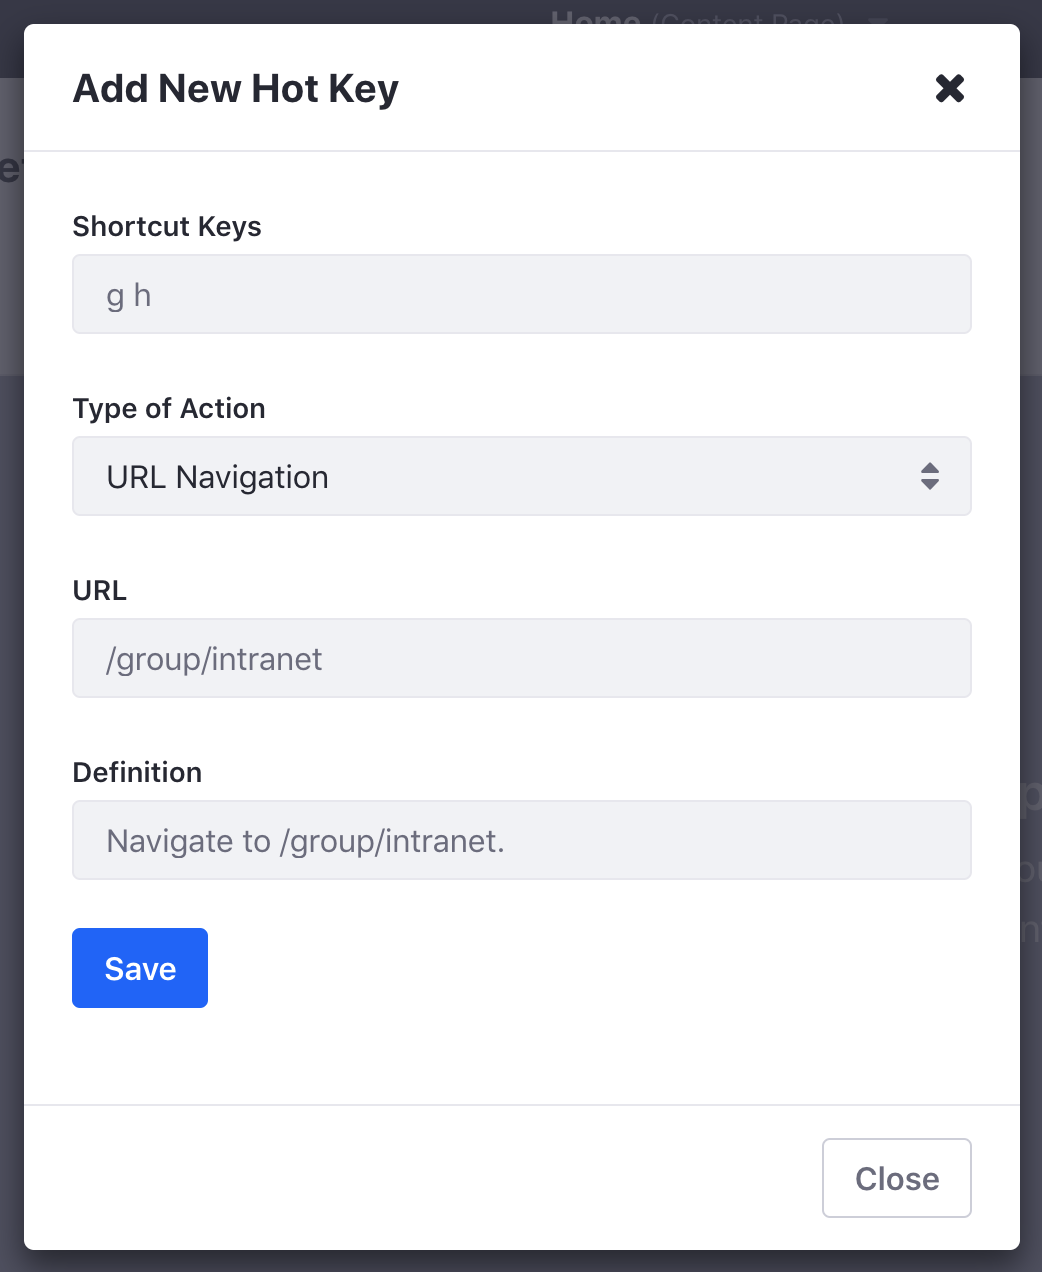
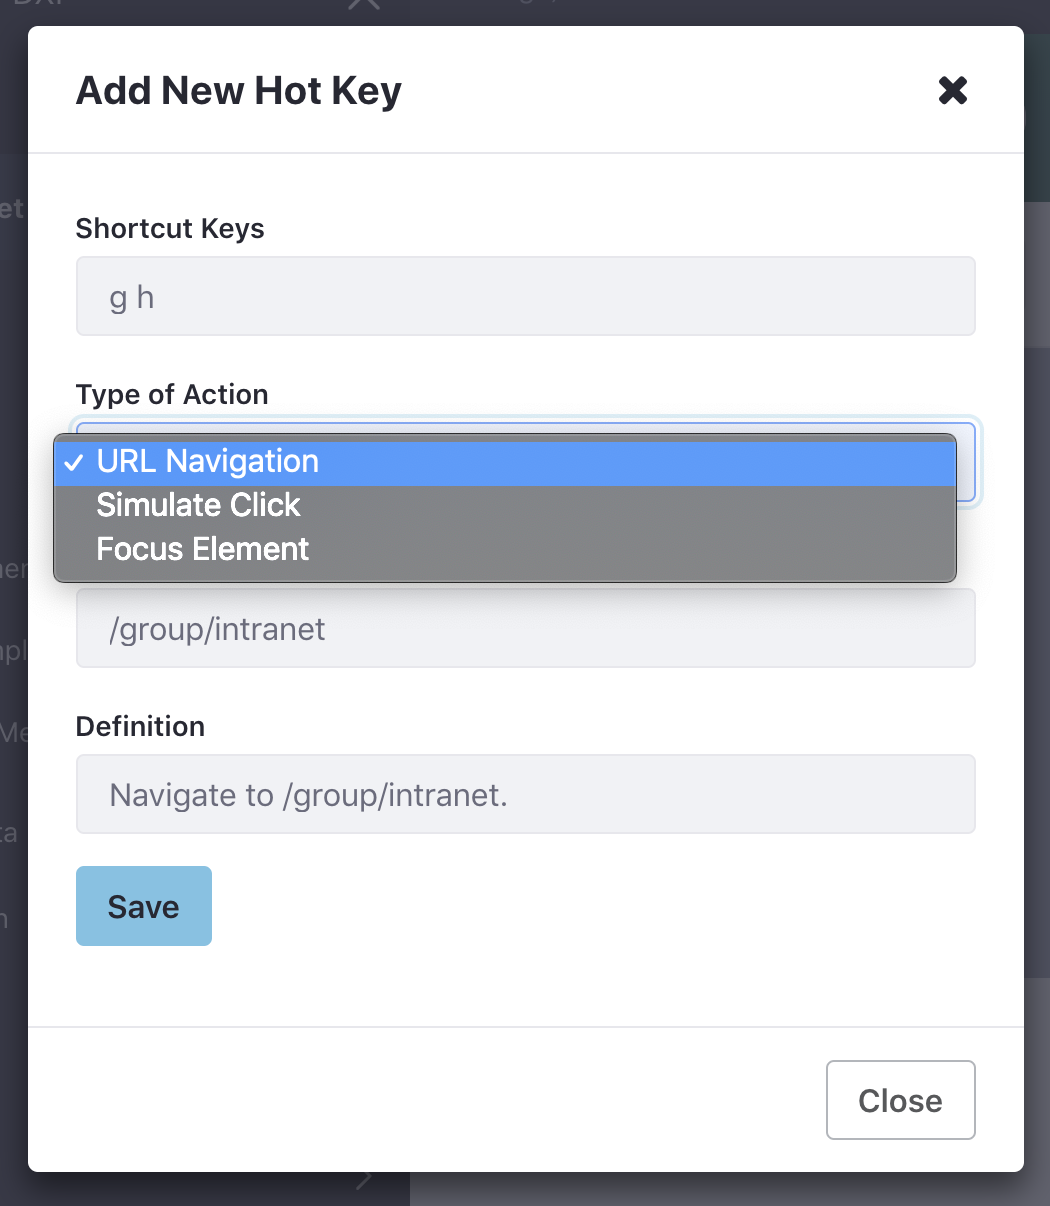
Update README.md

diff --git a/README.md b/README.md
@@ -11,13 +11,13 @@ Press 'a' + 'k' to create a new hotkey of your own. This is only available when 
 
 ![AddHotKey](/images/AddHotKey.png)
 
-Add custom hotkeys for url based navigation or for clicking on elements using an elements selector.
+Add custom hotkeys for url based navigation, for clicking on elements, or focusing elements using an elements selector.
 
-## How to build and deploy to liferay
+## How to Build and Deploy to Liferay
 
 ### Build it
 ` $ ./gradlew build `
-The jar file will be in `build/liferay.hot.keys-1.0.0.jar`
+The jar file will be in `build/libs/liferay.hot.keys-1.0.0.jar`.
 
 ### Deploy to Liferay
 ` $ ./gradlew deploy -Pauto.deploy.dir="/path/to/liferay/deploy"`
